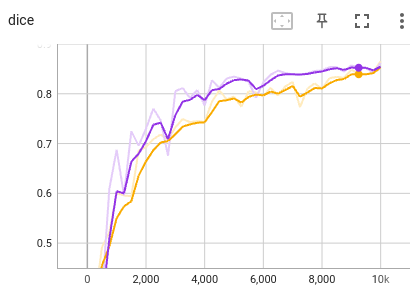
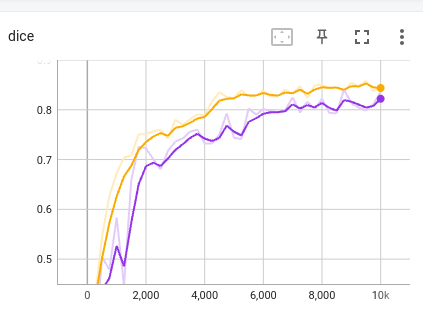
update readme for lcovnet

Changed region(s): [[0.0867, 0.0299, 0.9831, 0.9568], [0.0, 0.0299, 0.0867, 0.1495]]

diff --git a/seg_full_sup/3d_LCTSC/README.md b/seg_full_sup/3d_LCTSC/README.md
@@ -1,4 +1,4 @@
-# Chest organ segmentation from 3D CTT
+# Chest organ segmentation from 3D CT Images
 <img src="./picture/seg_example.png" width="400" height="400"/> 
 
 In this example, we use 3D neural networks to segment chest organs from 3D CT volumes. 
@@ -6,10 +6,11 @@ The following networks are considered:
 
 |Network  |Reference | Remarks|
 |---|---| ---|
+|LCOVNet| [Zhao et al., TMI 2023][lcovnet_paper]| A lightweight 3D CNN|
 |UNet2D5 | [Wang et al., MICCAI 2019][unet2d5_paper]|  A 2.5D UNet combining 2D and 3D convolutions|
 |UNet3D |[Çiçek et al., MICCAI 2016][unet3d_paper]| 3D UNet|
 |UNet3D_ScSE |[Roy et al., TMI 2019][scse_paper]| 3D UNe with spatial and channel attention |
-|LCOVNet| [Zhao et al., TMI 2023][lcovnet_paper]| A lightweight 3D CNN|
+
 
 [unet2d5_paper]:https://link.springer.com/chapter/10.1007/978-3-030-32245-8_30
 [unet3d_paper]:https://link.springer.com/chapter/10.1007/978-3-319-46723-8_49
@@ -28,7 +29,7 @@ we randomly split the dataet into  36, 9 and 27 and  for training, validation an
 
 ## 2. Segmentation with UNet3D
 ### 2.1 Training
-We first use the UNet3D for the segmentation task. The configuration file is `config/unet3d.cfg`. Some key configurations are like the following:
+We first use the LCOVNet for the segmentation task. The configuration file is `config/lcovnet.cfg`. Some key configurations are like the following:
 
 ```bash
 [dataset]
@@ -50,11 +51,10 @@ NormalizeWithMinMax_threshold_lower = [-1000]
 NormalizeWithMinMax_threshold_upper = [1000]
 ...
 [network]
-net_type     = UNet3D
-class_num    = 5
-in_chns      = 1
-feature_chns = [32, 64, 128, 256, 512]
-dropout      = [0, 0, 0.2, 0.2, 0.2]
+net_type      = LCOVNet
+class_num     = 5
+in_chns       = 1
+feature_chns  = [32, 64, 128, 256, 512]
 
 [training]
 ...
@@ -68,7 +68,7 @@ lr_scheduler = StepLR
 lr_gamma = 0.5
 lr_step  = 4000
 early_stop_patience = 6000
-ckpt_dir            = model/unet3d
+ckpt_dir            = model/lcovnet
 
 iter_max   = 10000
 iter_valid = 250
@@ -78,10 +78,10 @@ iter_save  = 10000
 where we use random crop and flipping for data augmentation. Each batch contains 2 images, with a patch size of 96x96x96. The DiceLoss is used for training, with an Adam optimizer and an initial learning rate of 0.001. The total iteration number is 10000, and the Step learning rate scheduler is used.  Start to train by running:
  
 ```bash
-pymic_train config/unet3d.cfg
+pymic_train config/lcovnet.cfg
 ```
 
-During training or after training, run `tensorboard --logdir model/unet3d` and you will see a link in the output, such as `http://your-computer:6006`. Open the link in the browser and you can observe the average Dice score and loss during the training stage, such as shown in the following images. In the left one, the yellow and purple curves are for training and validation Dice,  respectively.  In the right one, the cyan and red curves are for training and validation loss,  respectively. 
+During training or after training, run `tensorboard --logdir model/lcovnet` and you will see a link in the output, such as `http://your-computer:6006`. Open the link in the browser and you can observe the average Dice score and loss during the training stage, such as shown in the following images. In the left one, the yellow and purple curves are for training and validation Dice,  respectively.  In the right one, the cyan and red curves are for training and validation loss,  respectively. 
 
 ![avg_dice](./picture/avg_dice.png)
 ![avg_loss](./picture/avg_loss.png)
